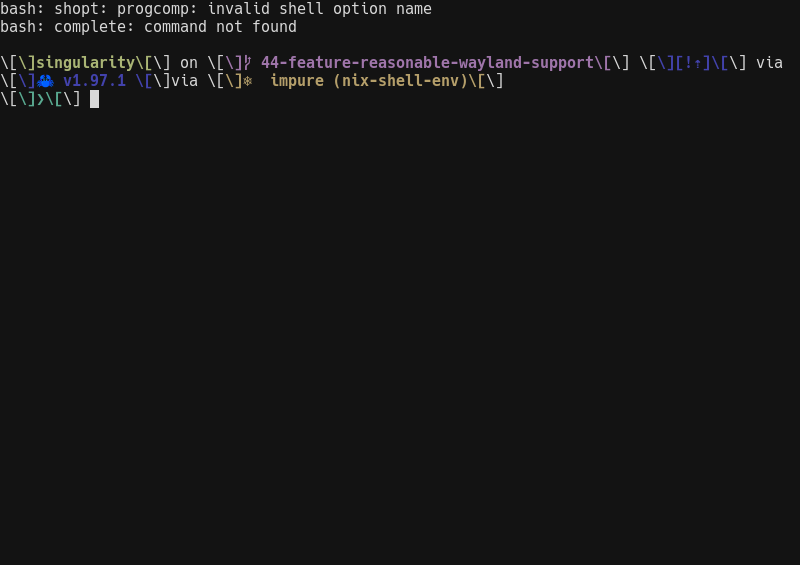
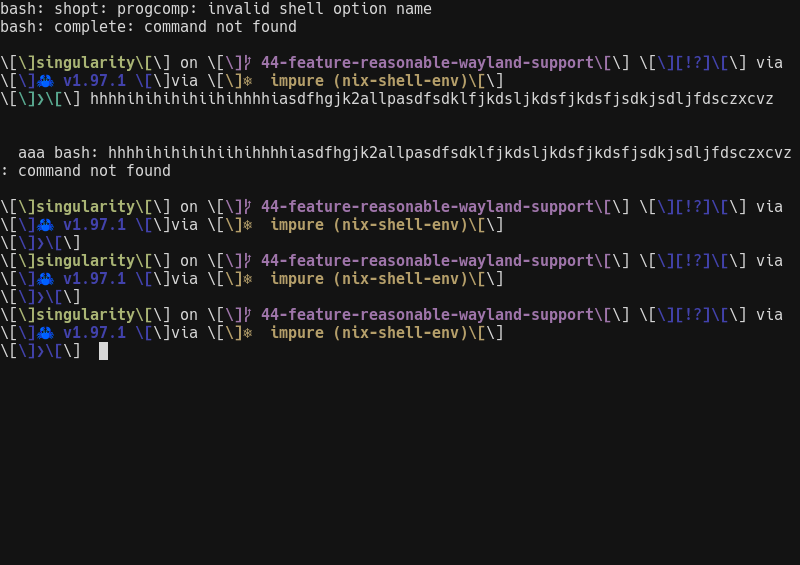
try to give key events to wayland apps

diff --git a/singularity_sar/src/smithay/mod.rs b/singularity_sar/src/smithay/mod.rs
@@ -3,11 +3,14 @@ use calloop::{LoopHandle, PostAction};
 use singularity_common::sap::packets::{StandardEvent, WlSurfaceId};
 use slotmap::SlotMap;
 use smithay::{
-    backend::renderer::{
-        BufferType, buffer_type,
-        utils::{RendererSurfaceStateUserData, on_commit_buffer_handler},
+    backend::{
+        input::Keycode,
+        renderer::{
+            BufferType, buffer_type,
+            utils::{RendererSurfaceStateUserData, on_commit_buffer_handler},
+        },
     },
-    input::{Seat, SeatHandler, SeatState},
+    input::{Seat, SeatHandler, SeatState, keyboard::FilterResult},
     reexports::wayland_server::{
         Client, Display, DisplayHandle, backend::ClientData, protocol::wl_surface::WlSurface,
     },
@@ -73,6 +76,12 @@ pub struct SmithayState {
     // input_queue: mpsc::Receiver<UIEvent>,
     // // Singularity stuff
     // hook: Box<dyn NodularRunnerHook>,
+    /// keypress events that need to be sent to a surface
+    /// represented by (target surface id, keycode)
+    /// Works by first setting key seat's focus to the target surface,
+    /// then sending a quick pressed then unpressed event
+    /// Ignores things like holding, timestamp, serial, ...
+    key_event_queue: calloop::channel::Sender<(WlSurfaceId, u32)>,
 }
 impl SmithayState {
     pub fn new(event_handle: &LoopHandle<AppletRunner>) -> Self {
@@ -128,16 +137,68 @@ impl SmithayState {
                     calloop::Interest::READ,
                     calloop::Mode::Level,
                 ),
-                |_, display, data| {
+                |_, display, state| {
                     // profiling::scope!("dispatch_clients");
                     // Safety: we don't drop the display
                     let display = unsafe { display.get_mut() };
-                    display.dispatch_clients(data).unwrap();
+                    display.dispatch_clients(state).unwrap();
                     display.flush_clients().unwrap();
 
                     Ok(PostAction::Continue)
                 },
             )
+            .unwrap();
+
+        let (key_event_queue_sender, key_event_queue_reciever) = calloop::channel::channel();
+
+        event_handle
+            .insert_source(key_event_queue_reciever, |event, &mut (), state| {
+                let calloop::channel::Event::Msg((target_surface_id, keycode)) = event else {
+                    return;
+                };
+
+                state.smithay_state.seat.get_keyboard().unwrap().set_focus(
+                    state,
+                    Some(state.smithay_state.surfaces[target_surface_id].clone()),
+                    Serial::from(42),
+                );
+                state
+                    .smithay_state
+                    .seat
+                    .get_keyboard()
+                    .unwrap()
+                    .input::<(), _>(
+                        state,
+                        Keycode::new(keycode),
+                        smithay::backend::input::KeyState::Pressed,
+                        // dk bro
+                        Serial::from(42),
+                        std::time::SystemTime::now()
+                            .duration_since(std::time::UNIX_EPOCH)
+                            .unwrap()
+                            .as_millis() as u32,
+                        |_, _, _| FilterResult::Forward,
+                    );
+                state
+                    .smithay_state
+                    .seat
+                    .get_keyboard()
+                    .unwrap()
+                    .input::<(), _>(
+                        state,
+                        Keycode::new(keycode),
+                        smithay::backend::input::KeyState::Released,
+                        // dk bro
+                        Serial::from(43),
+                        std::time::SystemTime::now()
+                            .duration_since(std::time::UNIX_EPOCH)
+                            .unwrap()
+                            .as_millis() as u32,
+                        |_, _, _| FilterResult::Forward,
+                    );
+
+                dbg!("Sent keypress with keycode", keycode);
+            })
             .unwrap();
 
         Self {
@@ -148,6 +209,7 @@ impl SmithayState {
             seat_state,
             seat,
             surfaces: SlotMap::with_key(),
+            key_event_queue: key_event_queue_sender,
         }
     }
 
@@ -385,7 +447,10 @@ impl XdgShellHandler for AppletRunner {
 
         // let root applet know abt new surface
         self.root_client
-            .send_event(StandardEvent::WlSurfaceRegistered { surface_id });
+            .send_event(StandardEvent::WlSurfaceRegistered {
+                surface_id,
+                key_event_queue: self.smithay_state.key_event_queue.clone(),
+            });
 
         println!("New toplevel surface registered");
     }

diff --git a/singularity_sttk/src/wl_surface_applet.rs b/singularity_sttk/src/wl_surface_applet.rs
@@ -4,35 +4,69 @@ use crate::{
     standard_keybinds::handle_standard_keybinds,
 };
 use singularity_common::sap::packets::{StandardEvent, WlSurfaceId};
-use sonamu_ui::{display_units::DisplayContainerSize, ui_element::UIElement};
+use sonamu_ui::{
+    display_units::DisplayContainerSize,
+    ui_element::UIElement,
+    ui_event::{Key, UIEvent},
+};
+
+/// NOTE: ignores modifiers
+/// I'm too tired for ts
+/// https://github.com/torvalds/linux/blob/master/include/uapi/linux/input-event-codes.h
+fn key_to_keycode(key: Key) -> Option<u32> {
+    Some(include!(concat!(env!("OUT_DIR"), "/keycode_matches.rs")) + 8)
+}
 
 pub struct WlSurfaceApplet {
     surface_id: WlSurfaceId,
+    key_event_queue: calloop::channel::Sender<(WlSurfaceId, u32)>,
     hook: Box<dyn NodularRunnerHook + 'static>,
 }
-impl CreatableNodularApplet<WlSurfaceId> for WlSurfaceApplet {
-    fn new(surface_id: WlSurfaceId, hook: Box<dyn NodularRunnerHook + 'static>) -> Self {
-        Self { surface_id, hook }
+impl CreatableNodularApplet<(WlSurfaceId, calloop::channel::Sender<(WlSurfaceId, u32)>)>
+    for WlSurfaceApplet
+{
+    fn new(
+        (surface_id, key_event_queue): (WlSurfaceId, calloop::channel::Sender<(WlSurfaceId, u32)>),
+        hook: Box<dyn NodularRunnerHook + 'static>,
+    ) -> Self {
+        Self {
+            surface_id,
+            key_event_queue,
+            hook,
+        }
     }
 }
 impl StandardApplet for WlSurfaceApplet {
     fn handle_standard_event(&mut self, standard_event: StandardEvent) {
-        dbg!("TODO: handle event wl surface applet");
-
         match standard_event {
             StandardEvent::UIEvent(ui_event) => {
                 if handle_standard_keybinds(&ui_event, &self.hook) {
                     return;
                 }
 
-                // self.hook.
+                match ui_event {
+                    UIEvent::KeyPress(key, _key_modifiers) => {
+                        if let Some(keycode) = key_to_keycode(key) {
+                            self.key_event_queue
+                                .send((self.surface_id, keycode))
+                                .unwrap();
+
+                            // self.hook.damage_window();
+                        }
+                    }
+                    UIEvent::MousePress(_, _) => {}
+                    UIEvent::WindowResized(_) => {}
+                }
             }
             StandardEvent::FocusChanged(_) => {}
             StandardEvent::Highlighted(_) => {}
             StandardEvent::CloseRequest => {}
             StandardEvent::SurfaceDamageAck => {}
             StandardEvent::TreeviewDamageAck => {}
-            StandardEvent::WlSurfaceRegistered { surface_id: _ } => {}
+            StandardEvent::WlSurfaceRegistered {
+                surface_id: _,
+                key_event_queue: _,
+            } => {}
         }
     }
 

diff --git a/singularity_sttk/build.rs b/singularity_sttk/build.rs
@@ -1,0 +1,79 @@
+use regex::Regex;
+use std::{env, fs::write, path::Path};
+
+// This is so jank...
+// Keycodes from: https://github.com/torvalds/linux/blob/master/include/uapi/linux/input-event-codes.h
+
+const KEYCODE_DEFINITIONS: &str = "
+#define KEY_Q			16
+#define KEY_W			17
+#define KEY_E			18
+#define KEY_R			19
+#define KEY_T			20
+#define KEY_Y			21
+#define KEY_U			22
+#define KEY_I			23
+#define KEY_O			24
+#define KEY_P			25
+
+#define KEY_A			30
+#define KEY_S			31
+#define KEY_D			32
+#define KEY_F			33
+#define KEY_G			34
+#define KEY_H			35
+#define KEY_J			36
+#define KEY_K			37
+#define KEY_L			38
+
+#define KEY_Z			44
+#define KEY_X			45
+#define KEY_C			46
+#define KEY_V			47
+#define KEY_B			48
+#define KEY_N			49
+#define KEY_M			50
+";
+
+fn main() {
+    let out_dir = env::var("OUT_DIR").unwrap();
+    let dest_path = Path::new(&out_dir).join("keycode_matches.rs");
+
+    // Wrote this Regex myself, based on https://docs.rs/regex/latest/regex/struct.Regex.html
+    // pretty proud of myself
+    let re = Regex::new(r"(?m)^\s*#define\s+KEY_(\S)\s+([0-9]+)\s*$").unwrap();
+
+    let match_arms = re
+        .captures_iter(KEYCODE_DEFINITIONS)
+        .filter_map(|captures| {
+            let key_char = captures[1].chars().next()?.to_lowercase();
+            let keycode: u32 = captures[2].parse().ok()?;
+
+            Some(format!("Key::Char('{key_char}') => {keycode}"))
+        })
+        .collect::<Vec<_>>()
+        .join(",\n");
+
+    let content = format!(
+        r"
+            match key {{
+                Key::ArrowKeyUp => 103,
+                Key::ArrowKeyDown => 108,
+                Key::ArrowKeyLeft => 105,
+                Key::ArrowKeyRight => 106,
+                Key::Enter => 28,
+                Key::Backspace => 14,
+                Key::Char(' ') => 57,
+                Key::Char('0') => 11,
+                // KEY_1 = 2 and etc
+                Key::Char(c @ '1'..='9') => c.to_digit(10)? + 1,
+                {match_arms},
+                _ => None?,
+            }}
+        "
+    );
+    write(dest_path, content).unwrap();
+
+    // Re-run if build.rs itself changes
+    println!("cargo:rerun-if-changed=build.rs");
+}

diff --git a/singularity_sttk/src/nodular_applet/recursive_node_applet.rs b/singularity_sttk/src/nodular_applet/recursive_node_applet.rs
@@ -609,12 +609,15 @@ impl StandardApplet for RecursiveNodeApplet {
                         .immut_handle_ui_event(ui_event),
                 }
             }
-            StandardEvent::WlSurfaceRegistered { surface_id } => {
+            StandardEvent::WlSurfaceRegistered {
+                surface_id,
+                key_event_queue,
+            } => {
                 // TODO: change behavior based on `match self.shared_resource.focus_index.get()`
                 SharedResource::add_child(
                     &self.shared_resource,
                     RecursiveNodeApplet::boxed_get_boxed_initializer(
-                        WlSurfaceApplet::get_boxed_initiator(surface_id),
+                        WlSurfaceApplet::get_boxed_initiator((surface_id, key_event_queue)),
                     ),
                 );
             }

diff --git a/singularity_common/src/sap/packets.rs b/singularity_common/src/sap/packets.rs
@@ -25,7 +25,7 @@ impl WlSurfaceId {
 }
 
 /// Server to client
-#[derive(Clone, Copy, Debug)]
+#[derive(Clone, Debug)]
 pub enum StandardEvent {
     UIEvent(UIEvent),
     FocusChanged(bool),
@@ -40,5 +40,7 @@ pub enum StandardEvent {
     /// Currently doing by surface instead of by wl client
     WlSurfaceRegistered {
         surface_id: WlSurfaceId,
+        /// REVIEW: this field prevents standard event from being Copy, I feel like I should avoid that
+        key_event_queue: calloop::channel::Sender<(WlSurfaceId, u32)>,
     },
 }

diff --git a/DEVLOG.md b/DEVLOG.md
@@ -9987,3 +9987,23 @@ This sounds meaner than I realized, but the point is,
 it actually fixed it with a surprisingly consise fix
 (one new function `send_frames_surface_tree` defined and just call it once,
 and the function itself is also like 20 lines.)
+
+2026-09-04 07:15PM
+
+I asked AI how I would best do the event forwarding to the wl app from the
+wl surface applet,
+and it said to make a new event.
+But I realized this is something I already know how to do on my own,
+(as opposed to with some of the other smithay problems which stems from lack of documentation)
+there's really no reason to ask AI.
+
+I decided on something rly jank,
+which is to include a key event queue going from the singularity applet to smithay app
+on registering.
+It sets the keyboard focus to the place, then does a press then unpress.
+
+2026-09-04 10:04PM
+
+...huh, it is pretty much not working,
+but in my testing (consisting of mashing a bunch of buttons),
+suddenly, all the stuff I typed in was processed then nothing happened again.
